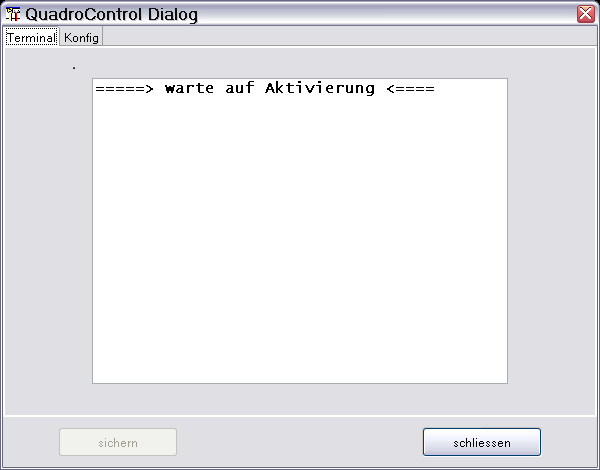
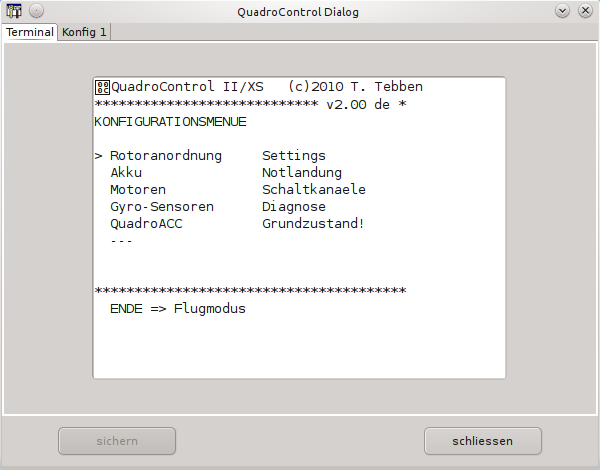
update after server crash

diff --git a/QC-Copter/src/gde/device/tttronix/GathererThread.java b/QC-Copter/src/gde/device/tttronix/GathererThread.java
@@ -40,7 +40,6 @@ import java.util.logging.Logger;
 public class GathererThread extends Thread {
 	final static String				$CLASS_NAME									= GathererThread.class.getName();
 	final static Logger				log													= Logger.getLogger(GathererThread.class.getName());
-	final static int					WAIT_TIME_RETRYS						= 90;																											//sec
 
 	final DataExplorer				application;
 	final QcCopterSerialPort	serialPort;
@@ -53,7 +52,6 @@ public class GathererThread extends Thread {
 	String										recordSetKey								= Messages.getString(gde.messages.MessageIds.GDE_MSGT0272);
 	boolean										isPortOpenedByLiveGatherer	= false;
 	boolean										isGatheredRecordSetVisible	= true;
-	int												retryCounter								= GathererThread.WAIT_TIME_RETRYS;													// WAIT_TIME_RETRYS * 2 sec timeout = 180 sec
 	boolean										isCollectDataStopped				= false;
 
 	/**
@@ -93,8 +91,6 @@ public class GathererThread extends Thread {
 		this.isCollectDataStopped = false;
 		log.logp(java.util.logging.Level.FINE, GathererThread.$CLASS_NAME, $METHOD_NAME, "====> entry initial time step ms = " + this.device.getTimeStep_ms()); //$NON-NLS-1$
 
-		String processName = this.device.getRecordSetStemName();
-
 		while (!this.isCollectDataStopped) {
 			try {
 
@@ -118,19 +114,17 @@ public class GathererThread extends Thread {
 					dataBuffer = this.serialPort.getData();
 
 					// check if a record set matching for re-use is available and prepare a new if required
-					if (this.channel.size() == 0 || recordSet == null || !this.recordSetKey.endsWith(" " + processName)) { //$NON-NLS-1$
+					if (this.channel.size() == 0 || recordSet == null || !this.recordSetKey.endsWith(this.device.getRecordSetStemName())) { //$NON-NLS-1$
 						this.application.setStatusMessage(""); //$NON-NLS-1$
-						setRetryCounter(GathererThread.WAIT_TIME_RETRYS); // WAIT_TIME_RETRYS * receive timeout sec timeout = 180 sec
-						log.logp(java.util.logging.Level.FINE, GathererThread.$CLASS_NAME, $METHOD_NAME, "setRetryCounter = " + GathererThread.WAIT_TIME_RETRYS); //$NON-NLS-1$
 						// record set does not exist or is outdated, build a new name and create
-						this.recordSetKey = this.channel.getNextRecordSetNumber() + ") " + processName; //$NON-NLS-1$ 
+						this.recordSetKey = this.channel.getNextRecordSetNumber() + this.device.getRecordSetStemName(); //$NON-NLS-1$ 
 						this.channel.put(this.recordSetKey, RecordSet.createRecordSet(this.recordSetKey, this.application.getActiveDevice(), this.channel.getNumber(), true, false));
 						this.channel.applyTemplateBasics(this.recordSetKey);
 						log.logp(java.util.logging.Level.FINE, GathererThread.$CLASS_NAME, $METHOD_NAME, this.recordSetKey + " created for channel " + this.channel.getName()); //$NON-NLS-1$
 						if (this.channel.getActiveRecordSet() == null) this.channel.setActiveRecordSet(this.recordSetKey);
 						recordSet = this.channel.get(this.recordSetKey);
 						recordSet.setAllDisplayable();
-						this.device.updateVisibilityStatus(recordSet, true);
+						this.device.updateVisibilityStatus(recordSet, false);
 						//recordSet.addTimeStep_ms(0.0);
 						this.channel.applyTemplate(this.recordSetKey, false);
 						// switch the active record set if the current record set is child of active channel
@@ -148,34 +142,14 @@ public class GathererThread extends Thread {
 					if (measurementCount++ == 0) {
 						startCycleTime = tmpCycleTime;
 					}
+					else if (measurementCount == 10) {
+						this.device.updateVisibilityStatus(recordSet, true);
+					}
 					recordSet.addPoints(this.device.convertDataBytes(points, dataBuffer), (tmpCycleTime - startCycleTime));
 					log.logp(Level.TIME, GathererThread.$CLASS_NAME, $METHOD_NAME, "time = " + TimeLine.getFomatedTimeWithUnit(tmpCycleTime - startCycleTime)); //$NON-NLS-1$
 
 					if (recordSet.size() > 0 && recordSet.isChildOfActiveChannel() && recordSet.equals(this.channels.getActiveChannel().getActiveRecordSet())) {
-						GathererThread.this.application.updateGraphicsWindow();
-						GathererThread.this.application.updateStatisticsData();
-						GathererThread.this.application.updateDataTable(this.recordSetKey, false);
-						GathererThread.this.application.updateDigitalWindowChilds();
-						GathererThread.this.application.updateAnalogWindowChilds();
-						//GathererThread.this.application.updateCellVoltageChilds();
-					}
-
-					//OsdReaderWriter.write("E:\\Temp\\not.osd", this.channel, 1);
-				}
-				else { // no data gathered, wait for 36 seconds max. for actions
-					this.application.setStatusMessage(Messages.getString(MessageIds.GDE_MSGI1900));
-					log.logp(java.util.logging.Level.FINE, GathererThread.$CLASS_NAME, $METHOD_NAME, "wait for activation"); //$NON-NLS-1$
-
-					if (recordSet != null && recordSet.getRecordDataSize(true) > 5) { // record set has data points, save data and wait
-						finalizeRecordSet(false);
-						recordSet = null;
-						setRetryCounter(GathererThread.WAIT_TIME_RETRYS); // WAIT_TIME_RETRYS * receive timeout sec timeout = 180 sec
-						this.application.openMessageDialogAsync(this.dialog.getDialogShell(), Messages.getString(MessageIds.GDE_MSGT1902));
-					}
-					else if (0 == (setRetryCounter(getRetryCounter() - 1))) {
-						log.log(java.util.logging.Level.FINE, "eStation activation timeout"); //$NON-NLS-1$
-						this.application.openMessageDialogAsync(this.dialog.getDialogShell(), Messages.getString(MessageIds.GDE_MSGW1900));
-						stopDataGatheringThread(false, null);
+						GathererThread.this.application.updateAllTabs(false);
 					}
 				}
 			}
@@ -192,11 +166,6 @@ public class GathererThread extends Thread {
 						this.dialog.setTerminalText(Messages.getString(MessageIds.GDE_MSGI1900));
 					}
 					log.logp(java.util.logging.Level.FINE, GathererThread.$CLASS_NAME, $METHOD_NAME, "wait for activation ..."); //$NON-NLS-1$
-					if (0 == (setRetryCounter(getRetryCounter() - 1))) {
-						log.log(java.util.logging.Level.FINE, "eStation activation timeout"); //$NON-NLS-1$
-						this.application.openMessageDialogAsync(this.dialog.getDialogShell(), Messages.getString(MessageIds.GDE_MSGW1900));
-						stopDataGatheringThread(false, null);
-					}
 				}
 				// program end or unexpected exception occurred, stop data gathering to enable save data by user
 				else {
@@ -310,19 +279,5 @@ public class GathererThread extends Thread {
 	 */
 	boolean isCollectDataStopped() {
 		return this.isCollectDataStopped;
-	}
-
-	/**
-	 * @return the retryCounter
-	 */
-	int getRetryCounter() {
-		return this.retryCounter;
-	}
-
-	/**
-	 * @param newRetryCounter the retryCounter to set
-	 */
-	int setRetryCounter(int newRetryCounter) {
-		return this.retryCounter = newRetryCounter;
 	}
 }

diff --git a/QC-Copter/src/gde/device/tttronix/QcCopterDialog.java b/QC-Copter/src/gde/device/tttronix/QcCopterDialog.java
@@ -24,8 +24,6 @@ import gde.data.Channel;
 import gde.data.Channels;
 import gde.data.RecordSet;
 import gde.device.DeviceDialog;
-import gde.exception.ApplicationConfigurationException;
-import gde.exception.SerialPortException;
 import gde.messages.Messages;
 import gde.ui.DataExplorer;
 import gde.ui.SWTResourceManager;
@@ -67,8 +65,7 @@ public class QcCopterDialog extends DeviceDialog {
 	Composite									terminalComposite;
 	CTabItem									terminalTabItem;
 
-	Button										closeButton;
-	Button										saveButton;
+	Button										saveButton, startConfiguration, closeButton;
 	GathererThread						dataGatherThread;
 
 	final QcCopter						device;																															// get device specific things, get serial port, ...
@@ -85,7 +82,7 @@ public class QcCopterDialog extends DeviceDialog {
 	public QcCopterDialog(Shell parent, QcCopter useDevice) {
 		super(parent);
 		this.device = useDevice;
-		this.serialPort = useDevice.getSerialPort();
+		this.serialPort = useDevice.getCommunicationPort();
 		this.settings = Settings.getInstance();
 		for (int i = 1; i <= this.device.getChannelCount(); i++) {
 			int actualMeasurementCount = this.device.getMeasurementNames(i).length;
@@ -137,7 +134,7 @@ public class QcCopterDialog extends DeviceDialog {
 					@Override
 					public void helpRequested(HelpEvent evt) {
 						QcCopterDialog.log.log(java.util.logging.Level.FINER, "dialogShell.helpRequested, event=" + evt); //$NON-NLS-1$
-						QcCopterDialog.this.application.openHelpDialog("WStechVario", "HelpInfo.html"); //$NON-NLS-1$ //$NON-NLS-2$
+						QcCopterDialog.this.application.openHelpDialog("QC-Copter", "HelpInfo.html"); //$NON-NLS-1$ //$NON-NLS-2$
 					}
 				});
 				{
@@ -161,7 +158,7 @@ public class QcCopterDialog extends DeviceDialog {
 								terminalTextLData.verticalAlignment = GridData.CENTER;
 								terminalTextLData.horizontalAlignment = GridData.CENTER;
 								this.terminalText.setLayoutData(terminalTextLData);
-								this.terminalText.setText("01234567890123456789012345678901234567890\n1\n2\n3\n4\n5\n6\n7\n8\n9\n0\n1\n2\n3\n4\n5\n6\n7\n8\n9");
+								this.terminalText.setText("012345678901234567890123456789012345678901234567890\n1\n2\n3\n4\n5\n6\n7\n8\n9\n0\n1\n2\n3\n4\n5\n6\n7\n8\n9");
 								this.terminalText.setFont(SWTResourceManager.getFont("Monospace", 10, SWT.NORMAL));
 							}
 						}
@@ -188,6 +185,25 @@ public class QcCopterDialog extends DeviceDialog {
 								QcCopterDialog.log.log(java.util.logging.Level.FINEST, "saveButton.widgetSelected, event=" + evt); //$NON-NLS-1$
 								QcCopterDialog.this.device.storeDeviceProperties();
 								QcCopterDialog.this.saveButton.setEnabled(false);
+							}
+						});
+					}
+					{
+						this.startConfiguration = new Button(this.dialogShell, SWT.PUSH | SWT.CENTER);
+						FormData startConfigurationLData = new FormData();
+						startConfigurationLData.height = 30;
+						startConfigurationLData.left = new FormAttachment(0, 1000, 200);
+						startConfigurationLData.right = new FormAttachment(1000, 1000, -200);
+						startConfigurationLData.bottom = new FormAttachment(1000, 1000, -10);
+						this.startConfiguration.setLayoutData(startConfigurationLData);
+						this.startConfiguration.setFont(SWTResourceManager.getFont(GDE.WIDGET_FONT_NAME, GDE.WIDGET_FONT_SIZE, SWT.NORMAL));
+						this.startConfiguration.setText(this.device.serialPort.isConnected() ? "stop configurartion" : "start configurartion");//QcCopterDialog.java
+						this.startConfiguration.addSelectionListener(new SelectionAdapter() {
+							@Override
+							public void widgetSelected(SelectionEvent evt) {
+								QcCopterDialog.log.log(java.util.logging.Level.FINEST, "startConfiguration.widgetSelected, event=" + evt); //$NON-NLS-1$
+								QcCopterDialog.this.device.openCloseSerialPort();
+								checkPortStatus();
 							}
 						});
 					}
@@ -257,38 +273,21 @@ public class QcCopterDialog extends DeviceDialog {
 					});
 				}
 
-				try {
-					Channel activChannel = Channels.getInstance().getActiveChannel();
-					if (activChannel != null) {
-						RecordSet activeRecordSet = activChannel.getActiveRecordSet();
-						if (activeRecordSet != null) {
-							this.tabFolder.setSelection(activeRecordSet.getChannelConfigNumber());
-						}
-						else {
-							this.dataGatherThread = new GathererThread(this.application, this.device, this.serialPort, activChannel.getNumber(), this);
-							this.dataGatherThread.start();
-						}
+				Channel activChannel = Channels.getInstance().getActiveChannel();
+				if (activChannel != null) {
+					RecordSet activeRecordSet = activChannel.getActiveRecordSet();
+					if (activeRecordSet != null) {
+						this.tabFolder.setSelection(activeRecordSet.getChannelConfigNumber());
 					}
-				}
-				catch (SerialPortException e) {
-					QcCopterDialog.log.log(java.util.logging.Level.SEVERE, e.getMessage(), e);
-					this.application.openMessageDialog(this.getDialogShell(), Messages.getString(gde.messages.MessageIds.GDE_MSGE0015, new Object[] { e.getClass().getSimpleName() + GDE.STRING_BLANK_COLON_BLANK
-							+ e.getMessage() }));
-				}
-				catch (ApplicationConfigurationException e) {
-					QcCopterDialog.log.log(java.util.logging.Level.SEVERE, e.getMessage(), e);
-					this.application.openMessageDialog(this.getDialogShell(), Messages.getString(gde.messages.MessageIds.GDE_MSGE0010));
-					this.application.getDeviceSelectionDialog().open();
-				}
-				catch (RuntimeException e) {
-					QcCopterDialog.log.log(java.util.logging.Level.SEVERE, e.getMessage(), e);
-				}
-				catch (Throwable e) {
-					QcCopterDialog.log.log(java.util.logging.Level.SEVERE, e.getMessage(), e);
+					else {
+						if (this.device.serialPort.isMatchAvailablePorts(this.device.getPort()) && !this.device.serialPort.isConnected())
+							this.device.openCloseSerialPort();
+					}
 				}
 
 				this.dialogShell.setLocation(getParent().toDisplay(getParent().getSize().x / 2 - 175, 100));
 				this.dialogShell.open();
+				this.checkPortStatus();
 			}
 			else {
 				this.dialogShell.setVisible(true);
@@ -329,5 +328,17 @@ public class QcCopterDialog extends DeviceDialog {
 				}
 			}
 		});
+	}
+
+	/**
+	 * 
+	 */
+	void checkPortStatus() {
+		if (this.device.serialPort.isConnected()) {
+			this.startConfiguration.setText("stop configurartion");
+		}
+		else {
+			this.startConfiguration.setText("start configurartion");
+		}
 	}
 }

diff --git a/QC-Copter/src/gde/device/tttronix/QcCopter.java b/QC-Copter/src/gde/device/tttronix/QcCopter.java
@@ -19,6 +19,7 @@
 package gde.device.tttronix;
 
 import gde.GDE;
+import gde.comm.DeviceCommPort;
 import gde.config.Settings;
 import gde.data.Channel;
 import gde.data.Channels;
@@ -32,7 +33,6 @@ import gde.exception.DataInconsitsentException;
 import gde.exception.SerialPortException;
 import gde.log.Level;
 import gde.messages.Messages;
-import gde.serial.DeviceSerialPort;
 import gde.ui.DataExplorer;
 import gde.utils.Checksum;
 
@@ -68,7 +68,7 @@ public class QcCopter extends DeviceConfiguration implements IDevice {
 		this.serialPort = new QcCopterSerialPort(this, this.application);
 		this.dialog = new QcCopterDialog(this.application.getShell(), this);
 		if (this.application.getMenuToolBar() != null) {
-			this.configureSerialPortMenu(DeviceSerialPort.ICON_SET_START_STOP);
+			this.configureSerialPortMenu(DeviceCommPort.ICON_SET_START_STOP);
 		}
 	}
 
@@ -85,17 +85,8 @@ public class QcCopter extends DeviceConfiguration implements IDevice {
 		this.serialPort = new QcCopterSerialPort(this, this.application);
 		this.dialog = new QcCopterDialog(this.application.getShell(), this);
 		if (this.application.getMenuToolBar() != null) {
-			this.configureSerialPortMenu(DeviceSerialPort.ICON_SET_START_STOP);
+			this.configureSerialPortMenu(DeviceCommPort.ICON_SET_START_STOP);
 		}
-	}
-
-	/**
-	 * query the default stem used as record set name
-	 * @return recordSetStemName
-	 */
-	@Override
-	public String getRecordSetStemName() {
-		return Messages.getString(MessageIds.GDE_MSGT1900);
 	}
 
 	/**
@@ -203,12 +194,11 @@ public class QcCopter extends DeviceConfiguration implements IDevice {
 		//	}
 		//}
 	}
-
+	
 	/**
-	 * @return the serialPort
+	 * @return the device communication port
 	 */
-	@Override
-	public QcCopterSerialPort getSerialPort() {
+	public QcCopterSerialPort getCommunicationPort() {
 		return this.serialPort;
 	}
 
